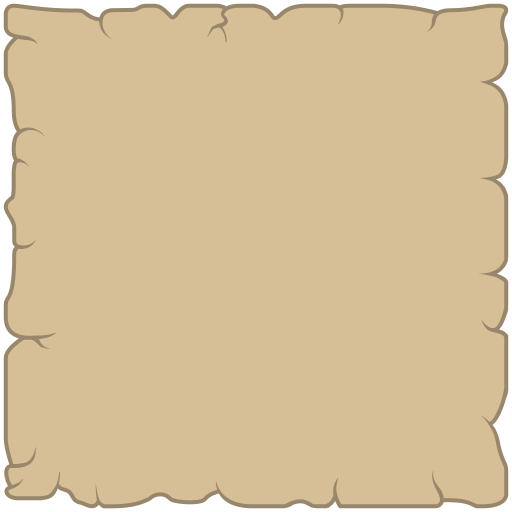
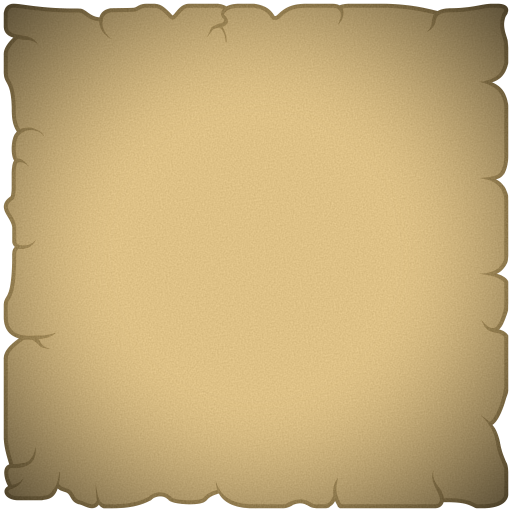
update pngs for shop and objectives

diff --git a/src/gameStyle.css b/src/gameStyle.css
@@ -27,7 +27,7 @@ body {
     height:250px;
     width:250px;
     position: fixed;
-    opacity: 0.7;
+    opacity: 0.8;
     top:90%;
     left:95%;
     transform: translate(-95%,-90%);
@@ -85,7 +85,7 @@ body {
     direction: rtl;
     font-family: 'Lucida Sans', 'Lucida Sans Regular', 'Lucida Grande', 'Lucida Sans Unicode', Geneva, Verdana, sans-serif;
     position: fixed;
-    opacity: 1;
+    opacity: 0.8;
     top:50%;
     left:50%;
     transform: translate(-50%,-50%);

diff --git a/game.html b/game.html
@@ -49,7 +49,7 @@
         <div class="objective4" id="objective4"></div>
     </div>
     <div class="shop" id="shop">
-        <img src="src/assets/dialog.png" alt="Snow" style="width:100%;">
+        <img src="src/assets/shop.png" alt="Snow" style="width:100%;">
         <div class="money" id="money"></div>
         <div class="title">חנות מוצרים:</div>
         <div class="item1" id="item1" onclick="buyShoes()">נעליים טובות יותר</div>
